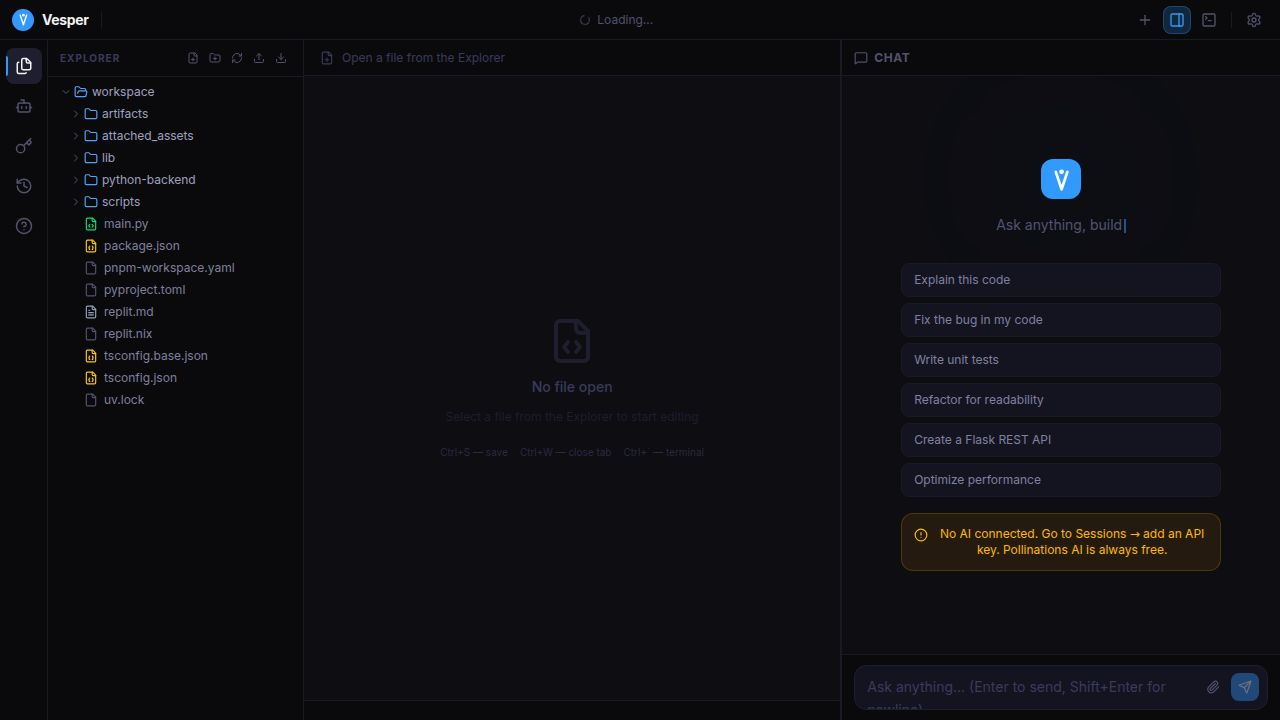
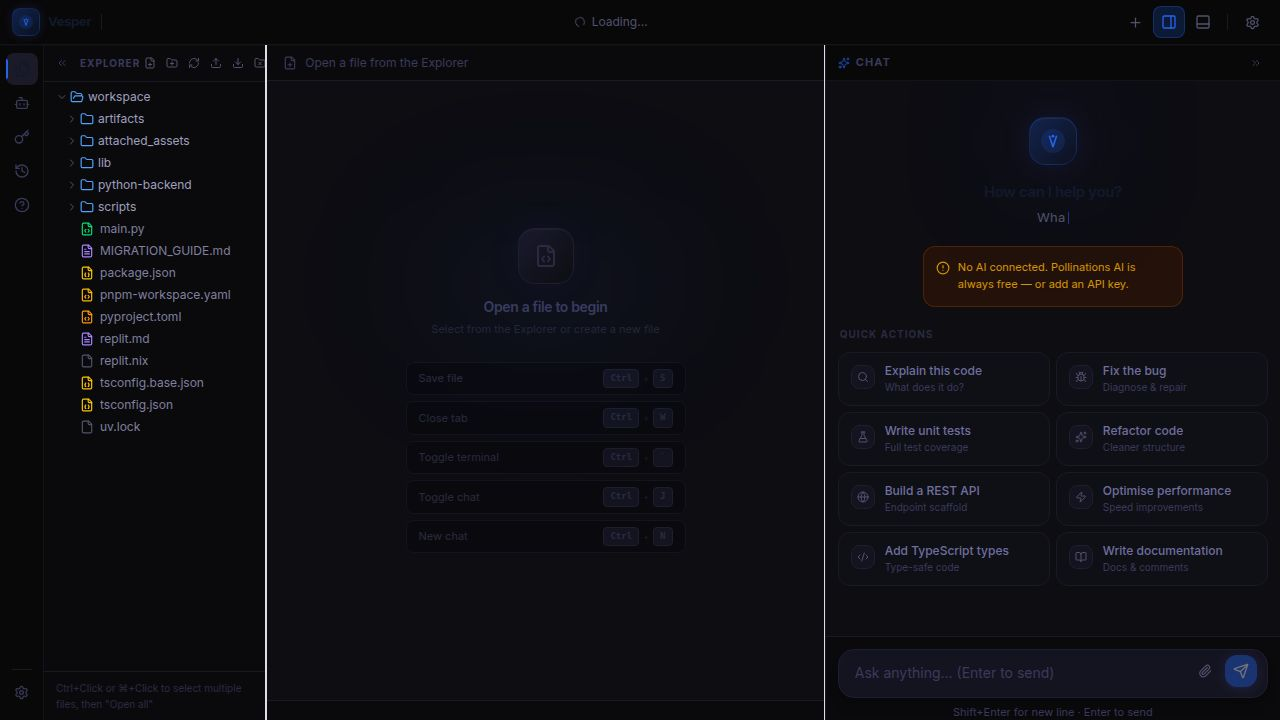
Improve mobile layout and clarity of saved API key status
Refactor TopBar and ChatPanel for better mobile responsiveness and add UX improvements to the Sessions page for API key persistence clarity.

Replit-Commit-Author: Agent
Replit-Commit-Session-Id: 4398e754-3b3a-4a0c-953a-594b547d6b76
Replit-Commit-Checkpoint-Type: full_checkpoint
Replit-Commit-Event-Id: 37079b82-3d83-47b3-ae1e-e26d983000e3
Replit-Commit-Screenshot-Url: https://storage.googleapis.com/screenshot-production-us-central1/a7ca90df-2cac-4181-9df1-3186dc070941/4398e754-3b3a-4a0c-953a-594b547d6b76/nNGXVDE
Replit-Helium-Checkpoint-Created: true

diff --git a/artifacts/ai-proxy/src/pages/sessions.tsx b/artifacts/ai-proxy/src/pages/sessions.tsx
@@ -120,8 +120,13 @@ function ApiKeyForm({ ai, onClose, onSuccess }: LoginGuideProps) {
   const [loading, setLoading] = useState(false);
   const [error, setError] = useState<string | null>(null);
 
+  const alreadySaved = !!ai.hasSession;
+
   const handleSave = async () => {
-    if (!apiKey.trim()) return;
+    if (!apiKey.trim()) {
+      if (alreadySaved) { onClose(); return; }
+      return;
+    }
     setLoading(true);
     setError(null);
     try {
@@ -151,6 +156,16 @@ function ApiKeyForm({ ai, onClose, onSuccess }: LoginGuideProps) {
 
   return (
     <div className="space-y-4">
+      {alreadySaved && (
+        <div className="bg-emerald-500/10 border border-emerald-500/25 rounded-xl p-3 text-xs flex items-start gap-2">
+          <CheckCircle2 className="h-3.5 w-3.5 text-emerald-400 shrink-0 mt-0.5" />
+          <div>
+            <p className="font-medium text-emerald-400">API key saved &amp; persisted</p>
+            <p className="text-[#52526e] mt-0.5">Your key is stored and will survive server restarts. Enter a new key below only if you want to replace it.</p>
+          </div>
+        </div>
+      )}
+
       <div className="bg-primary/5 border border-primary/15 rounded-xl p-3 text-xs text-[#52526e] space-y-1">
         <p className="font-medium text-foreground flex items-center gap-1.5">
           <Zap className="h-3.5 w-3.5 text-primary" />
@@ -166,7 +181,7 @@ function ApiKeyForm({ ai, onClose, onSuccess }: LoginGuideProps) {
           value={apiKey}
           onChange={e => { setApiKey(e.target.value); setError(null); }}
           onKeyDown={e => e.key === "Enter" && handleSave()}
-          placeholder={placeholder}
+          placeholder={alreadySaved ? "Leave blank to keep saved key, or paste new key…" : placeholder}
           className="w-full bg-[#111118] border border-[#1e1e2e] rounded-xl px-3 py-2.5 text-sm text-foreground font-mono focus:outline-none focus:border-primary/50 transition-colors"
           autoFocus
         />
@@ -189,19 +204,21 @@ function ApiKeyForm({ ai, onClose, onSuccess }: LoginGuideProps) {
       )}
 
       <div className="flex gap-2 pt-1">
-        <button
-          onClick={onClose}
-          className="flex-1 py-2.5 rounded-xl border border-[#1e1e2e] text-[#52526e] hover:text-foreground hover:bg-[#111118] text-sm transition-colors"
-        >
-          Cancel
-        </button>
+        {!alreadySaved && (
+          <button
+            onClick={onClose}
+            className="flex-1 py-2.5 rounded-xl border border-[#1e1e2e] text-[#52526e] hover:text-foreground hover:bg-[#111118] text-sm transition-colors"
+          >
+            Cancel
+          </button>
+        )}
         <button
           onClick={handleSave}
-          disabled={!apiKey.trim() || loading}
+          disabled={(!alreadySaved && !apiKey.trim()) || loading}
           className="flex-1 py-2.5 rounded-xl bg-primary hover:bg-primary/90 disabled:opacity-50 disabled:cursor-not-allowed text-primary-foreground text-sm font-medium transition-colors flex items-center justify-center gap-2"
         >
           {loading ? <Loader2 size={14} className="animate-spin" /> : <Key size={14} />}
-          Save API Key
+          {alreadySaved && !apiKey.trim() ? "Done" : "Save API Key"}
         </button>
       </div>
     </div>

diff --git a/artifacts/ai-proxy/src/components/ide/chat-panel.tsx b/artifacts/ai-proxy/src/components/ide/chat-panel.tsx
@@ -402,9 +402,10 @@ function ImportedProjectBanner({
 // Main chat panel
 // ─────────────────────────────────────────────────────────────────────────────
 
-export function ChatPanel({ newChatKey, compact = false }: {
+export function ChatPanel({ newChatKey, compact = false, mobile = false }: {
   newChatKey: number;
   compact?: boolean;
+  mobile?: boolean;
 }) {
   const { selectedAi, importedProject, setImportedProject, toggleChat } = useIDE();
   const { toast } = useToast();
@@ -675,7 +676,7 @@ export function ChatPanel({ newChatKey, compact = false }: {
       {/* ── Input bar ──────────────────────────────────────────────────── */}
       <div
         className="shrink-0 px-3 py-3 border-t border-[#1a1a24] bg-[#0a0a0c]"
-        style={{ paddingBottom: compact ? "12px" : "env(safe-area-inset-bottom, 12px)" }}
+        style={{ paddingBottom: compact ? "12px" : mobile ? "calc(env(safe-area-inset-bottom, 0px) + 8px)" : "env(safe-area-inset-bottom, 12px)" }}
       >
         <div
           className="relative flex items-end gap-2 bg-[#141420] border border-[#1e1e2e]

diff --git a/artifacts/ai-proxy/src/components/layout/top-bar.tsx b/artifacts/ai-proxy/src/components/layout/top-bar.tsx
@@ -249,11 +249,12 @@ export function TopBar() {
 
   return (
     <header
-      className="shrink-0 h-11 flex items-center px-3 gap-2.5
+      className="shrink-0 flex flex-col
         bg-[#080809] border-b border-[#131318] z-20 select-none
         shadow-[0_1px_0_rgba(255,255,255,0.02)]"
       style={{ paddingTop: "env(safe-area-inset-top, 0px)" }}
     >
+    <div className="h-14 md:h-11 flex items-center px-3 gap-2.5">
       {/* ── Logo ──────────────────────────────────────────────────────────── */}
       <div className="flex items-center gap-2 shrink-0">
         <div className="h-7 w-7 rounded-lg bg-gradient-to-br from-primary/30 to-primary/10
@@ -334,6 +335,7 @@ export function TopBar() {
           <TooltipContent side="bottom" className="text-xs">Sessions & Settings</TooltipContent>
         </Tooltip>
       </div>
+    </div>
     </header>
   );
 }

diff --git a/artifacts/ai-proxy/src/components/layout/ide-layout.tsx b/artifacts/ai-proxy/src/components/layout/ide-layout.tsx
@@ -424,7 +424,7 @@ function MobileWorkspace() {
     <div className="flex-1 min-h-0 overflow-hidden">
       {/* Each panel is always mounted once the tab is active, to preserve state */}
       <div className={`h-full ${mobileTab === "chat"     ? "" : "hidden"}`}>
-        <ChatPanel newChatKey={newChatKey} />
+        <ChatPanel newChatKey={newChatKey} mobile />
       </div>
       <div className={`h-full ${mobileTab === "editor"   ? "" : "hidden"}`}>
         <EditorPanel mobile />
